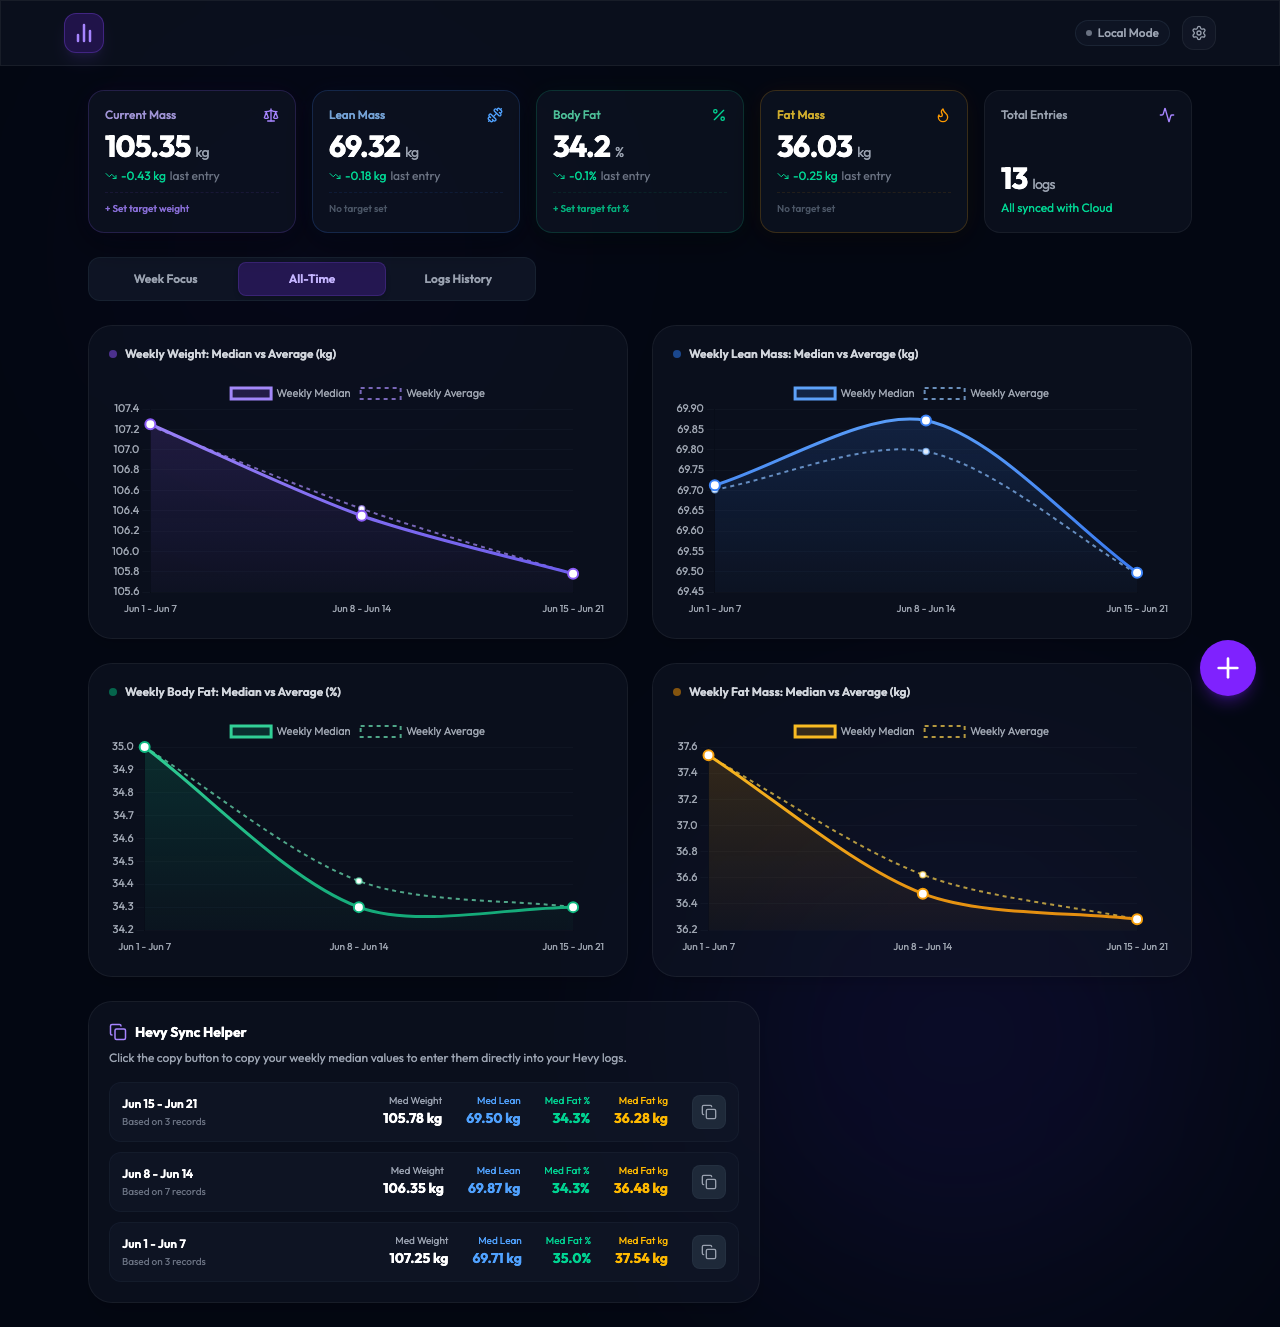
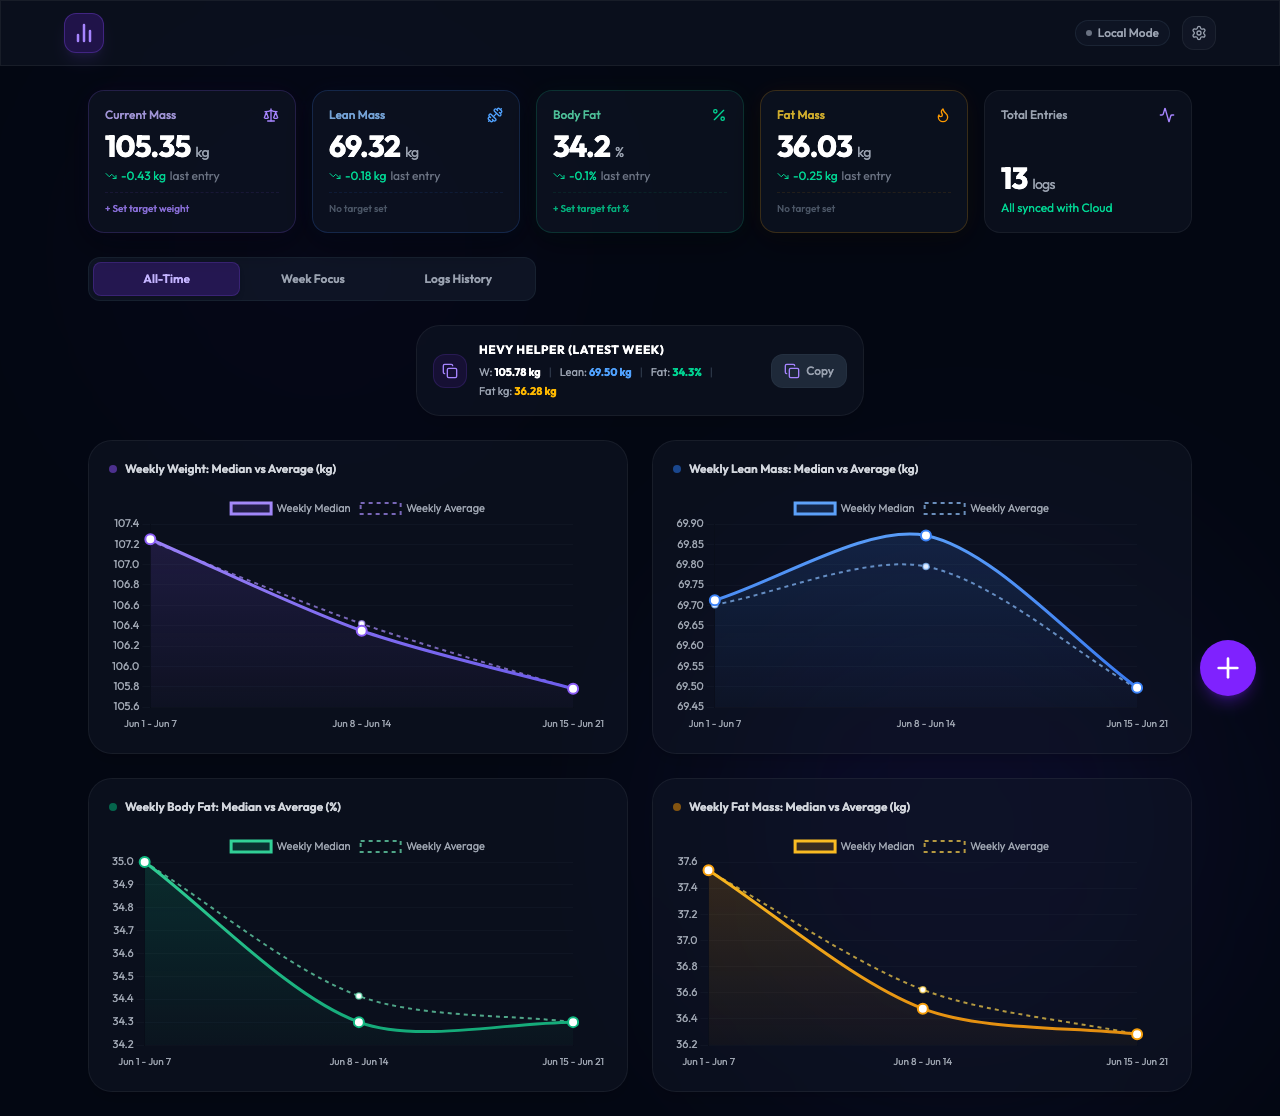
feat: default to All-Time tab and add latest week Hevy Helper at the top (#21)

diff --git a/src/components/ProgressCharts.vue b/src/components/ProgressCharts.vue
@@ -137,6 +137,42 @@
       v-show="store.activeTab === 'weekly'"
       class="space-y-6"
     >
+      <!-- HEVY SYNC HELPER FOR LATEST WEEK -->
+      <div 
+        v-if="store.groupedWeeks.length > 0" 
+        class="glass-card p-4 rounded-3xl max-w-md mx-auto shadow-lg flex items-center justify-between border border-gray-800/40 hover:border-gray-700/60 transition-all duration-300"
+      >
+        <div class="flex items-center gap-3">
+          <div class="p-2 rounded-xl bg-violet-600/10 border border-violet-500/15 flex-shrink-0">
+            <Copy class="w-4 h-4 text-violet-400" />
+          </div>
+          <div>
+            <h4 class="text-xs font-bold text-white uppercase tracking-wider flex items-center gap-1.5">
+              <span>Hevy Helper (Latest Week)</span>
+            </h4>
+            <div class="flex flex-wrap items-center gap-x-2 gap-y-0.5 mt-1.5 text-[11px] text-gray-400">
+              <span class="flex items-center gap-0.5">W: <strong class="text-white">{{ store.groupedWeeks[0].medianMass.toFixed(2) }} kg</strong></span>
+              <span class="text-gray-700">|</span>
+              <span class="flex items-center gap-0.5">Lean: <strong class="text-blue-400">{{ store.groupedWeeks[0].medianLeanMass.toFixed(2) }} kg</strong></span>
+              <span class="text-gray-700">|</span>
+              <span class="flex items-center gap-0.5">Fat: <strong class="text-emerald-400">{{ store.groupedWeeks[0].medianFat.toFixed(1) }}%</strong></span>
+              <span class="text-gray-700">|</span>
+              <span class="flex items-center gap-0.5">Fat kg: <strong class="text-amber-400">{{ store.groupedWeeks[0].medianFatMass.toFixed(2) }} kg</strong></span>
+            </div>
+          </div>
+        </div>
+
+        <button 
+          @click="copyWeeklyAverage(store.groupedWeeks[0])"
+          class="p-2 px-3 rounded-xl bg-gray-800 hover:bg-gray-750 text-gray-400 hover:text-white transition-all duration-200 cursor-pointer border border-gray-700/30 flex-shrink-0 flex items-center gap-1.5 text-xs font-medium"
+          title="Copy Weekly Medians"
+        >
+          <Check v-if="copiedWeekId === store.groupedWeeks[0].id" class="w-4 h-4 text-emerald-400 animate-bounce" />
+          <Copy v-else class="w-4 h-4 text-violet-400" />
+          <span>{{ copiedWeekId === store.groupedWeeks[0].id ? 'Copied!' : 'Copy' }}</span>
+        </button>
+      </div>
+
       <div class="grid grid-cols-1 md:grid-cols-2 gap-6">
         <!-- Weight Average Chart -->
         <div class="glass-card p-4 sm:p-5 rounded-3xl shadow-lg">
@@ -179,61 +215,6 @@
         </div>
       </div>
 
-      <!-- HEVY SYNC UTILITY -->
-      <div class="glass-card p-5 rounded-3xl max-w-2xl shadow-xl">
-        <div class="flex items-center gap-2 mb-2">
-          <Copy class="w-4.5 h-4.5 text-violet-400" />
-          <h3 class="text-sm font-bold text-white">Hevy Sync Helper</h3>
-        </div>
-        <p class="text-xs text-gray-400 mb-4">
-          Click the copy button to copy your weekly median values to enter them directly into your Hevy logs.
-        </p>
-
-        <!-- Averages List -->
-        <div class="space-y-2.5">
-          <div 
-            v-for="week in store.groupedWeeks" 
-            :key="week.id"
-            class="flex items-center justify-between p-3 rounded-xl bg-gray-900/60 border border-gray-800/40 hover:border-gray-700/60 transition-colors duration-200"
-          >
-            <div>
-              <div class="text-xs font-semibold text-white flex items-center gap-1.5">
-                <span>{{ week.label }}</span>
-              </div>
-              <div class="text-[10px] text-gray-500 mt-0.5">Based on {{ week.logs.length }} records</div>
-            </div>
-            
-            <div class="flex items-center gap-5 sm:gap-6 flex-wrap sm:flex-nowrap">
-              <div class="text-right">
-                <span class="text-[10px] text-gray-400 block leading-none">Med Weight</span>
-                <span class="text-sm font-bold text-white mt-0.5 block">{{ week.medianMass.toFixed(2) }} kg</span>
-              </div>
-              <div class="text-right">
-                <span class="text-[10px] text-blue-400 block leading-none">Med Lean</span>
-                <span class="text-sm font-bold text-blue-400 mt-0.5 block">{{ week.medianLeanMass.toFixed(2) }} kg</span>
-              </div>
-              <div class="text-right">
-                <span class="text-[10px] text-emerald-400 block leading-none">Med Fat %</span>
-                <span class="text-sm font-bold text-emerald-400 mt-0.5 block">{{ week.medianFat.toFixed(1) }}%</span>
-              </div>
-              <div class="text-right">
-                <span class="text-[10px] text-amber-400 block leading-none">Med Fat kg</span>
-                <span class="text-sm font-bold text-amber-400 mt-0.5 block">{{ week.medianFatMass.toFixed(2) }} kg</span>
-              </div>
-
-              <!-- Copy trigger -->
-              <button 
-                @click="copyWeeklyAverage(week)"
-                class="p-2 rounded-lg bg-gray-800 hover:bg-gray-750 text-gray-400 hover:text-white transition-all duration-200 cursor-pointer border border-gray-700/30 flex-shrink-0"
-                title="Copy Weekly Averages"
-              >
-                <Check v-if="copiedWeekId === week.id" class="w-4 h-4 text-emerald-400 animate-pulse" />
-                <Copy v-else class="w-4 h-4" />
-              </button>
-            </div>
-          </div>
-        </div>
-      </div>
     </div>
   </div>
 </template>

diff --git a/tests/charts.spec.js b/tests/charts.spec.js
@@ -56,22 +56,23 @@ test('Seed user data and take screenshot', async ({ page }) => {
   // Click "Continue as Guest" again since memory state is reset
   await page.getByRole('button', { name: 'Continue as Guest' }).click();
 
+  // Click "Week Focus" tab to display active week helper cards
+  await page.getByRole('button', { name: 'Week Focus' }).click();
+
   // Wait for the active week logs helper or charts to load
-  await expect(page.locator('.glass-card >> text=Hevy Helper')).toBeVisible();
+  await expect(page.locator('.glass-card >> text=Hevy Helper').first()).toBeVisible();
 
   // Assert Hevy Helper shows correct medians (from the active week of Jun 15 - Jun 21)
-  await expect(page.locator('text=W: 105.78 kg')).toBeVisible();
-  await expect(page.locator('text=Lean: 69.50 kg')).toBeVisible();
-  await expect(page.locator('text=Fat: 34.3%')).toBeVisible();
-  await expect(page.locator('text=Fat kg: 36.28 kg')).toBeVisible();
+  await expect(page.locator('text=W: 105.78 kg').first()).toBeVisible();
+  await expect(page.locator('text=Lean: 69.50 kg').first()).toBeVisible();
+  await expect(page.locator('text=Fat: 34.3%').first()).toBeVisible();
+  await expect(page.locator('text=Fat kg: 36.28 kg').first()).toBeVisible();
 
   // Assert raw measurements of latest day (Jun 17) are displayed on the top cards
   await expect(page.locator('text=105.35 kg').first()).toBeVisible(); // Total Mass card
   await expect(page.locator('text=69.32 kg').first()).toBeVisible(); // Lean Mass card
   await expect(page.locator('text=34.2 %').first()).toBeVisible(); // Body Fat card
   await expect(page.locator('text=36.03 kg').first()).toBeVisible(); // Fat Mass card
-  // Click "All-Time" tab to display long-term weekly trends
-  await page.getByRole('button', { name: 'All-Time' }).click();
 
   // Click "All-Time" tab to display long-term weekly trends
   await page.getByRole('button', { name: 'All-Time' }).click();

diff --git a/src/App.vue b/src/App.vue
@@ -38,17 +38,6 @@
         <section class="mb-6">
           <div class="flex p-1 rounded-xl bg-gray-900/80 border border-gray-800/60 max-w-md">
             <button 
-              @click="store.activeTab = 'daily'"
-              :class="[
-                'flex-1 py-2 text-xs font-semibold rounded-lg transition-all duration-300 cursor-pointer',
-                store.activeTab === 'daily' 
-                  ? 'bg-violet-600/20 text-violet-300 border border-violet-500/20 shadow-md' 
-                  : 'text-gray-400 hover:text-gray-200'
-              ]"
-            >
-              Week Focus
-            </button>
-            <button 
               @click="store.activeTab = 'weekly'"
               :class="[
                 'flex-1 py-2 text-xs font-semibold rounded-lg transition-all duration-300 cursor-pointer',
@@ -58,6 +47,17 @@
               ]"
             >
               All-Time
+            </button>
+            <button 
+              @click="store.activeTab = 'daily'"
+              :class="[
+                'flex-1 py-2 text-xs font-semibold rounded-lg transition-all duration-300 cursor-pointer',
+                store.activeTab === 'daily' 
+                  ? 'bg-violet-600/20 text-violet-300 border border-violet-500/20 shadow-md' 
+                  : 'text-gray-400 hover:text-gray-200'
+              ]"
+            >
+              Week Focus
             </button>
             <button 
               @click="store.activeTab = 'history'"

diff --git a/src/stores/bodyGraph.js b/src/stores/bodyGraph.js
@@ -50,7 +50,7 @@ export const useBodyGraphStore = defineStore('bodyGraph', {
     session: null,
     isOnline: navigator.onLine,
     isSyncing: false,
-    activeTab: 'daily',
+    activeTab: 'weekly',
     showAddModal: false,
     showAuthModal: false,
     showSettingsModal: false,
@@ -389,7 +389,7 @@ export const useBodyGraphStore = defineStore('bodyGraph', {
       if (!supabase) {
         this.user = null;
         this.session = null;
-        this.activeTab = 'daily';
+        this.activeTab = 'weekly';
         this.selectedWeekIndex = 0;
         this.editingLog = null;
         await this.loadLogs();
@@ -401,7 +401,7 @@ export const useBodyGraphStore = defineStore('bodyGraph', {
         
         this.user = null;
         this.session = null;
-        this.activeTab = 'daily';
+        this.activeTab = 'weekly';
         this.selectedWeekIndex = 0;
         this.editingLog = null;
         
